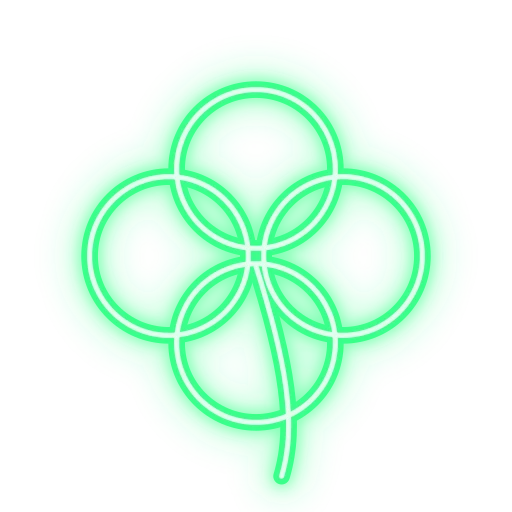
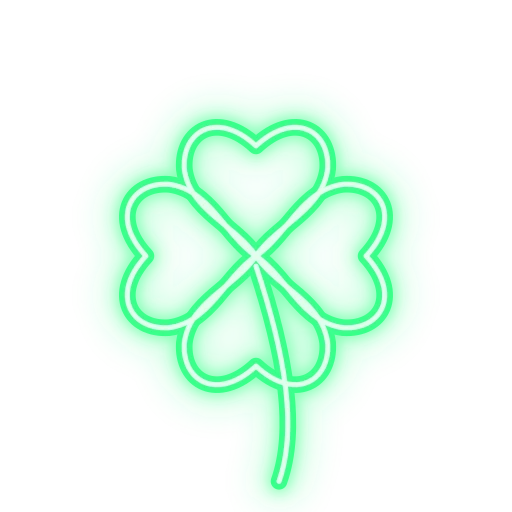
feat: changed spin button to a lever

Changed region(s): [[0.125, 0.125, 0.875, 0.9688]]

diff --git a/src/components/SpinLever.vue b/src/components/SpinLever.vue
@@ -1,0 +1,150 @@
+<script setup lang="ts">
+import { ref, computed } from "vue";
+
+const props = defineProps({
+    isSpinning: Boolean,
+});
+
+const emit = defineEmits(["pull"]);
+
+const trackHeight = 320;
+const handleHeight = 56;
+const maxY = trackHeight - handleHeight;
+
+const y = ref(0);
+const dragging = ref(false);
+const startPointerY = ref(0);
+const startLeverY = ref(0);
+const hasPulled = ref(false);
+
+const handleScale = computed(() => {
+    const trackCenter = trackHeight / 2;
+    const handleCenter = y.value + handleHeight / 2;
+
+    const maxDist = trackHeight / 2;
+    const dist = Math.abs(handleCenter - trackCenter);
+
+    const t = 1 - dist / maxDist;
+
+    // scale range: 1 → 1.10
+    return 1 + t * 0.125;
+});
+const handleStyle = computed(() => ({
+    transform: `translateY(${y.value}px) scale(${handleScale.value})`,
+    transition: dragging.value
+        ? "none"
+        : "transform 250ms cubic-bezier(.2,1.2,.4,1)",
+}));
+
+const rodStyle = computed(() => {
+    const trackCenter = trackHeight / 2;
+    const handleCenter = y.value + handleHeight / 2;
+
+    const pastCentre = !(handleCenter - trackCenter < 0);
+
+    return {
+        top: `0px`,
+        height: `${Math.abs(handleCenter - trackCenter)}px`,
+        transform: `translateX(-50%) translateY(${Math.min(handleCenter, trackCenter)}px)`,
+        transition: dragging.value
+            ? "none"
+            : "all 250ms cubic-bezier(.2,1.2,.4,1)",
+
+        background: pastCentre
+            ? "linear-gradient(to top, rgba(255,255,255,1) 0%, transparent 100%)"
+            : "linear-gradient(to bottom, rgba(255,255,255,1) 0%, transparent 100%)",
+    };
+});
+
+function pointerDown(e: PointerEvent) {
+    dragging.value = true;
+    hasPulled.value = false;
+    startPointerY.value = e.clientY;
+    startLeverY.value = y.value;
+    (e.target as HTMLElement).setPointerCapture(e.pointerId);
+}
+
+function pointerMove(e: PointerEvent) {
+    if (!dragging.value) return;
+
+    const delta = e.clientY - startPointerY.value;
+    y.value = Math.max(0, Math.min(maxY, startLeverY.value + delta));
+
+    if (y.value >= maxY && !hasPulled.value) {
+        hasPulled.value = true;
+        emit("pull");
+    }
+}
+
+function pointerUp() {
+    dragging.value = false;
+    y.value = 0;
+}
+</script>
+
+<template>
+    <div class="flicker my-auto flex flex-col justify-center">
+        <!-- // lights -->
+        <div class="mx-auto flex flex-row items-center">
+            <div
+                :class="`glow-box my-5 h-5 w-5 border border-gray-600 ${props.isSpinning ? 'flicker glow-red glow-border bg-red-50' : ''}`"
+            ></div>
+            <div
+                :class="`glow-box my-5 h-5 w-5 border border-gray-600 ${props.isSpinning ? '' : 'flicker glow-green glow-border bg-green-50'}`"
+            ></div>
+        </div>
+        <!-- //handle -->
+        <div
+            :class="`flicker relative w-20 select-none`"
+            :style="{ height: `${trackHeight}px` }"
+        >
+            <!-- Track -->
+            <div
+                class="track flicker absolute top-0 left-1/2 h-full w-6 -translate-x-1/2 rounded-full"
+            />
+            <div
+                class="rod absolute top-0 left-1/2 w-2 rounded-full bg-gray-300"
+                :style="rodStyle"
+            />
+
+            <!-- Handle -->
+            <div
+                :class="`handle glow-red absolute left-1/2 flex h-14 w-14 -translate-x-1/2 items-center justify-center rounded-full text-white shadow-lg`"
+                :style="handleStyle"
+                @pointerdown="pointerDown"
+                @pointermove="pointerMove"
+                @pointerup="pointerUp"
+                @pointercancel="pointerUp"
+                @lostpointercapture="pointerUp"
+            ></div>
+        </div>
+    </div>
+</template>
+
+<style>
+.handle {
+    cursor: grab;
+    background: var(--bg);
+    border: 1px solid #ffeef2;
+
+    /* outline: red 2px solid; */
+
+    box-shadow:
+        inset 0px 0px 0px 2px #ff2e63,
+        inset 0px 0px 30px 1px #ff2e63,
+        0px 0px 0px 2px #ff2e63,
+        0px 0px 15px 1px #ff2e63;
+}
+
+.handle:active {
+    cursor: grabbing;
+}
+
+.track {
+    border: 1px solid #eefdff;
+    box-shadow:
+        /* inset 0px 0px 0px 1px #35e7ff, */
+        0px 0px 0px 1px #35e7ff,
+        0px 0px 15px 1px #35e7ff;
+}
+</style>

diff --git a/src/components/SlotMachine.vue b/src/components/SlotMachine.vue
@@ -9,6 +9,7 @@ import Scoreboard from "./Scoreboard.vue";
 import Shop from "./Shop.vue";
 import Chances from "./Chances.vue";
 import Modal from "./Modal.vue";
+import SpinLever from "./SpinLever.vue";
 
 const displayRef = useTemplateRef("display");
 const displayColumns = useTemplateRef("column");
@@ -64,62 +65,59 @@ defineExpose({
 </script>
 
 <template>
-    <div
-        class="-2xl mx-auto my-4 w-full max-w-[80%] overflow-hidden rounded rounded-lg border-3 border-white"
-    >
-        <section
-            class="relative grid aspect-5/3 w-full grid-cols-5 overflow-hidden border-white"
-            ref="display"
+    <section class="flex flex-col justify-between">
+        <div
+            class="neon-box glow-blue glow-border glow-box mx-auto mb-4 flex w-full flex-row overflow-hidden rounded rounded-lg"
         >
             <div
-                class="will-change-transform backface-hidden"
-                ref="column"
-                v-for="n in 5"
-            ></div>
-        </section>
-    </div>
-    <div
-        class="flex grid flex-col lg:grid-cols-[auto_1fr_1fr] lg:grid-rows-[1fr_3fr_2fr]"
-    >
-        <input
-            type="button"
-            @click="spin"
-            value="Spin"
-            :disabled="slotMachine?.isSpinning ?? false"
-            class="neonderthaw-regular flicker row-span-3 h-full cursor-pointer border-2 border-cyan-400 bg-transparent px-8 py-3 text-6xl font-bold text-white shadow-[0_0_15px_rgba(34,211,238,0.5)] transition-all duration-300 text-shadow-[0_0_15px_rgba(34,211,238,1)] text-shadow-cyan-400 hover:bg-cyan-100 hover:text-gray-900 hover:shadow-[0_0_30px_rgba(34,211,238,0.8)] hover:text-shadow-none disabled:pointer-events-none disabled:cursor-default disabled:opacity-50 disabled:shadow-none disabled:grayscale disabled:text-shadow-none disabled:hover:bg-transparent disabled:hover:text-cyan-400 disabled:hover:shadow-none lg:aspect-1/1"
-        />
+                class="relative m-auto grid !aspect-5/3 h-full min-w-0 flex-1 grid-cols-5 overflow-hidden rounded-xl"
+                ref="display"
+            >
+                <div
+                    class="will-change-transform backface-hidden"
+                    ref="column"
+                    v-for="n in 5"
+                ></div>
+            </div>
+            <SpinLever
+                @pull="spin"
+                v-bind:isSpinning="slotMachine?.isSpinning"
+            />
+        </div>
 
-        <Bet
-            class="row-span-3"
-            v-model="currentBet"
-            :max="slotMachine?.score.score"
-        />
-        <Scoreboard
-            class="row-span-3"
-            :score="slotMachine?.score.score ?? 0"
-            :lastWin="slotMachine?.lastWin ?? 0"
-            :bet="slotMachine?.bet ?? 0"
-        />
-    </div>
+        <div class="flex flex-row">
+            <Bet
+                class="w-full"
+                v-model="currentBet"
+                :max="slotMachine?.score.score"
+            />
+            <Scoreboard
+                class="w-full"
+                :score="slotMachine?.score.score ?? 0"
+                :lastWin="slotMachine?.lastWin ?? 0"
+                :bet="slotMachine?.bet ?? 0"
+            />
+        </div>
 
-    <Modal
-        v-model="showShop"
-        title="shop"
-        glow-class="glow-purple neonderthaw-regular"
-    >
-        <Shop
-            :inventory="inventory"
-            :score="slotMachine?.score.score ?? 0"
-            :symbols="slotMachine?.symbols ?? []"
-            @purchase="handlePurchase"
-        />
-    </Modal>
+        <Modal
+            v-model="showShop"
+            title="shop"
+            glow-class="glow-purple neonderthaw-regular"
+        >
+            <Shop
+                :inventory="inventory"
+                :score="slotMachine?.score.score ?? 0"
+                :symbols="slotMachine?.symbols ?? []"
+                @purchase="handlePurchase"
+            />
+        </Modal>
 
-    <Modal
-        v-model="showChances"
-        title="chances"
-        glow-class="glow-red neonderthaw-regular"
-    >
-        <Chances :inventory="inventory" />
-    </Modal>
+        <Modal
+            v-model="showChances"
+            title="chances"
+            glow-class="glow-red neonderthaw-regular"
+        >
+            <Chances :inventory="inventory" />
+        </Modal>
+    </section>
 </template>

diff --git a/src/logic/config.ts b/src/logic/config.ts
@@ -3,9 +3,6 @@ export type SymbolScore = { [title: string]: number };
 export type ReelSymbol = { src: string; title: string };
 
 // Draw weights — higher = more common. Rare symbols (seven/bar) seldom appear.
-// NOTE: titles must match the baked sprite filenames (assets/symbols-baked/*).
-// "cherry" currently does NOT match the "cherries" sprite, so that symbol draws
-// at weight 0 — preserved from the original; fix the title if that's unintended.
 export const WEIGHTED_SYMBOLS: WeightedIcon[] = [
     { title: "cherries", weight: 40 },
     { title: "lemon", weight: 35 },
@@ -22,7 +19,7 @@ export const WEIGHTED_SYMBOLS: WeightedIcon[] = [
 ];
 
 // export const WEIGHTED_SYMBOLS: WeightedIcon[] = [
-//     { title: "cherries", weight: 1 },
+//     { title: "cherries", weight: 100 },
 //     { title: "lemon", weight: 0 },
 //     { title: "grapes", weight: 0 },
 //     { title: "plum", weight: 0 },
@@ -33,7 +30,7 @@ export const WEIGHTED_SYMBOLS: WeightedIcon[] = [
 //     { title: "bell", weight: 0 },
 //     { title: "horseshoe", weight: 0 },
 //     { title: "bar", weight: 0 },
-//     { title: "seven", weight: 0 },
+//     { title: "seven", weight: 1 },
 // ];
 
 // Points awarded for a win with these symbols

diff --git a/src/components/Bet.vue b/src/components/Bet.vue
@@ -97,21 +97,21 @@ watch(
         <!-- bottom row: spans all three columns -->
         <div class="bet-presets flex text-2xl">
             <button
-                class="glow-button glow-text"
+                class="glow-button glow-text py-3"
                 aria-label="Minimum bet"
                 @click="minBet"
             >
                 min
             </button>
             <button
-                class="glow-button glow-text"
+                class="glow-button glow-text py-3"
                 aria-label="Half bet"
                 @click="halfBet"
             >
                 half
             </button>
             <button
-                class="glow-button glow-text"
+                class="glow-button glow-text py-3"
                 aria-label="Maximum bet"
                 @click="maxBet"
             >

diff --git a/src/style.css b/src/style.css
@@ -343,6 +343,7 @@ code {
 }
 
 .glow-border {
+  /* border-radius: 2rem; */
   border: 2px solid white;
 }
 